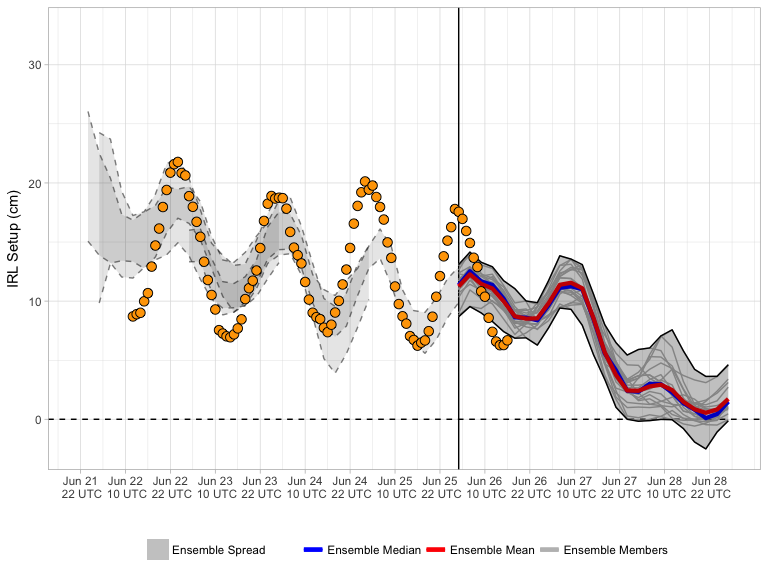
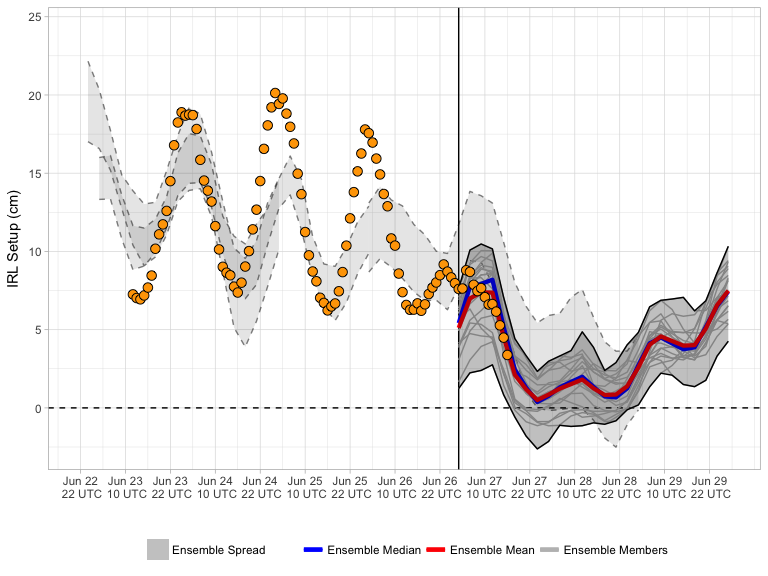
20170627 forecast update

diff --git a/docs/index.md b/docs/index.md
@@ -3,7 +3,7 @@ Current Forecast
 
 [![](img/raw_setup.png)](https://bhlmn.github.io/IRLSetup/img/raw_setup.png)
 
-> Forecast valid 2017-06-26 12:24:30.
+> Forecast valid 2017-06-27 12:44:52.
 
 Explanation
 -----------
@@ -15,7 +15,7 @@ water elevation in the northern IRL (near Titusville), and negative
 setup indicates the increase elevation in the southern IRL (near
 Sebastian). The x-axis displays the date and time in UTC. The solid
 vertical line represents the beginning of the most recent ensemble
-forecast (currently 2017-06-25 18:00:00). For this most recent forecast,
+forecast (currently 2017-06-26 18:00:00). For this most recent forecast,
 the ensemble spread (grey shading) is bound by solid black lines, with
 individual members represented by faint grey lines. The ensemble mean
 and median for this are represented by the red and blue curves,
